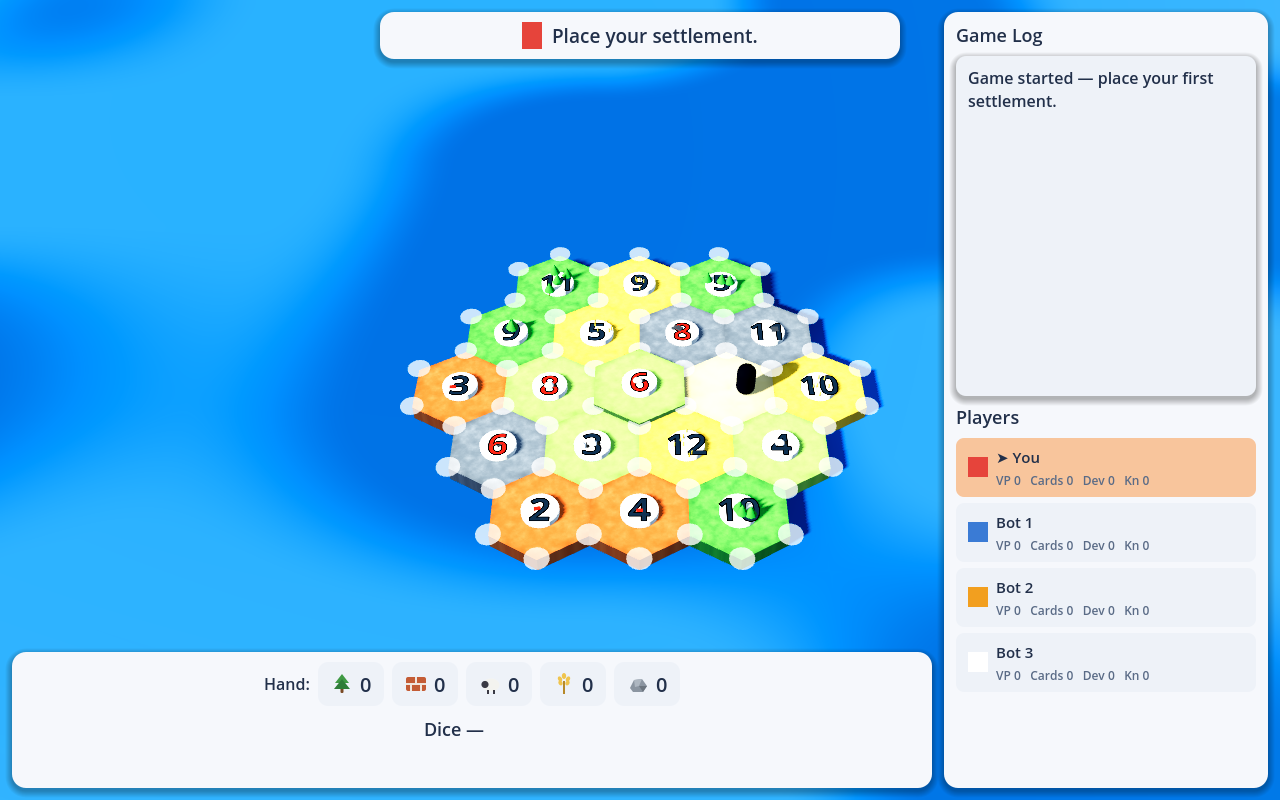
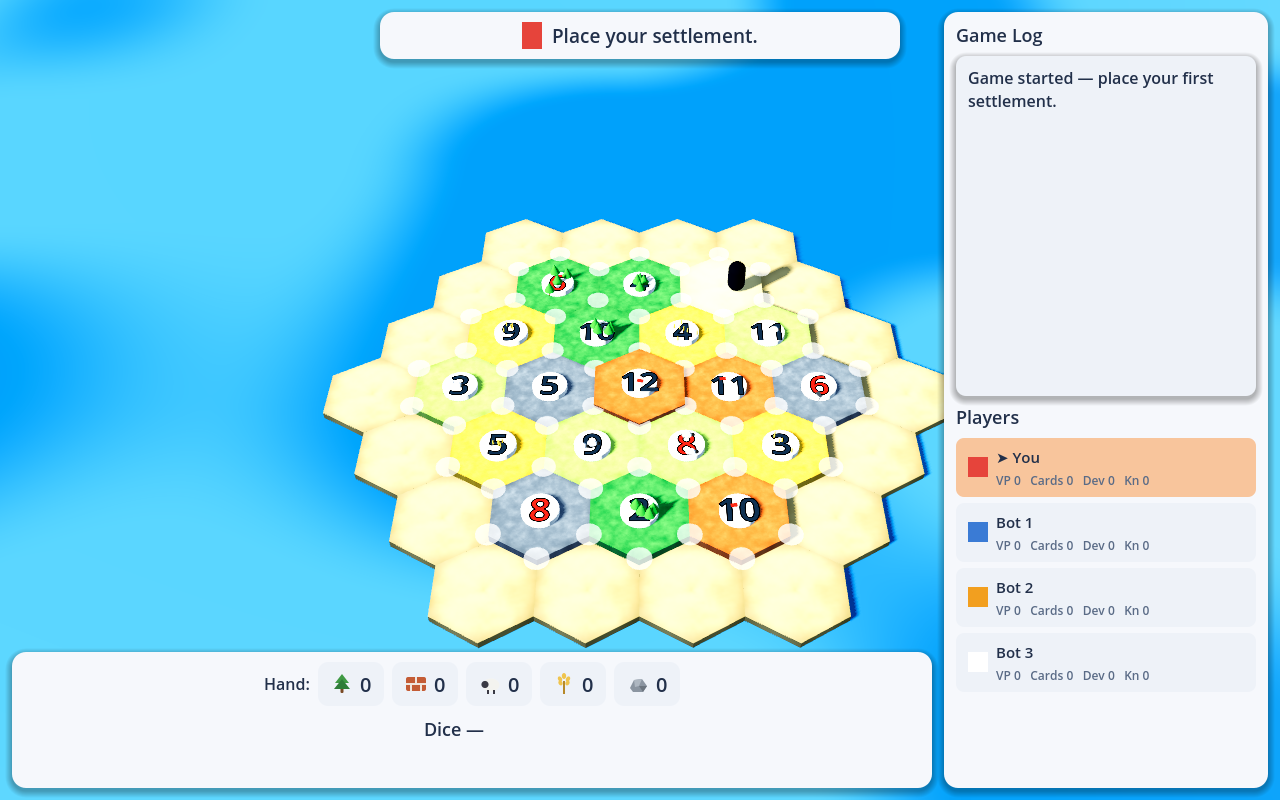
Colonist.io color pass for the 3D board: palette, blue ocean, sand frame ring
Retint the terrain shader per-resource colors to match colonist.io (deep
forest green wood, lime pasture sheep, golden wheat, clay-orange brick, cool
slate ore, pale desert). Override the water shader uniforms to colonist's
friendly mid-blue and deepen the environment background to match. Add a
_spawn_beach() ring of low tan hex prisms around the island — the 3D
equivalent of colonist's tan board frame — sitting below the land tiles and
above the waterline so the island reads raised with a visible shoreline. The
ring is purely cosmetic: it is not in _hex_world/_tile_nodes, so hover
picking and tile lifts are unaffected.

Claude-Session: https://claude.ai/code/session_01EeaUzE1kz2DtZ3Ndp3Eh8x

diff --git a/godot/README.md b/godot/README.md
@@ -53,9 +53,13 @@ The board is a 3D scene (`Game3DWorld`) and is the **default** in-game view:
   from the engine's axial coordinates, with slightly randomized top vertices so
   the terrain isn't perfectly flat.
 - **Procedural terrain shaders** (`shaders/terrain.gdshader`) — noise-blended
-  grass/forest/field, rocky ore/brick, and wavy desert dunes (no textures).
+  grass/forest/field, rocky ore/brick, and wavy desert dunes (no textures),
+  in a **colonist.io-matched palette**: deep forest green, lime pasture,
+  golden wheat, clay-orange brick, and cool slate ore.
+- **Sand frame** — a ring of low tan hexes hugs the island (the 3D take on
+  colonist.io's tan board border), with the calm blue ocean beyond it.
 - **Animated water shader** (`shaders/water.gdshader`) — TIME-driven wave
-  displacement and an animated foam ring at the shoreline.
+  displacement in colonist's friendly mid-blue.
 - **Micro-props**: clean low-poly primitives per resource — pine cone/trunk
   trees on Wood, stacked brick prisms on Brick, fluffy capsule sheep on
   Sheep, thin golden stalks on Wheat, blocky dark rocks on Ore — clustered
@@ -64,7 +68,8 @@ The board is a 3D scene (`Game3DWorld`) and is the **default** in-game view:
 - **Juicy feedback**: hexes lift on hover (Tween), settlements/roads/cities
   *pop in* with an elastic overshoot, and a translucent glowing **hologram**
   previews your placement under the cursor.
-- **Floating number tokens** that bob and slowly spin above each tile.
+- **Stamped number tokens** — cream discs lying flat on each tile, colonist
+  style (red 6/8).
 - **3D physics dice** (`scripts/dice/`) that can be physically thrown and read
   by their resting top face.
 
